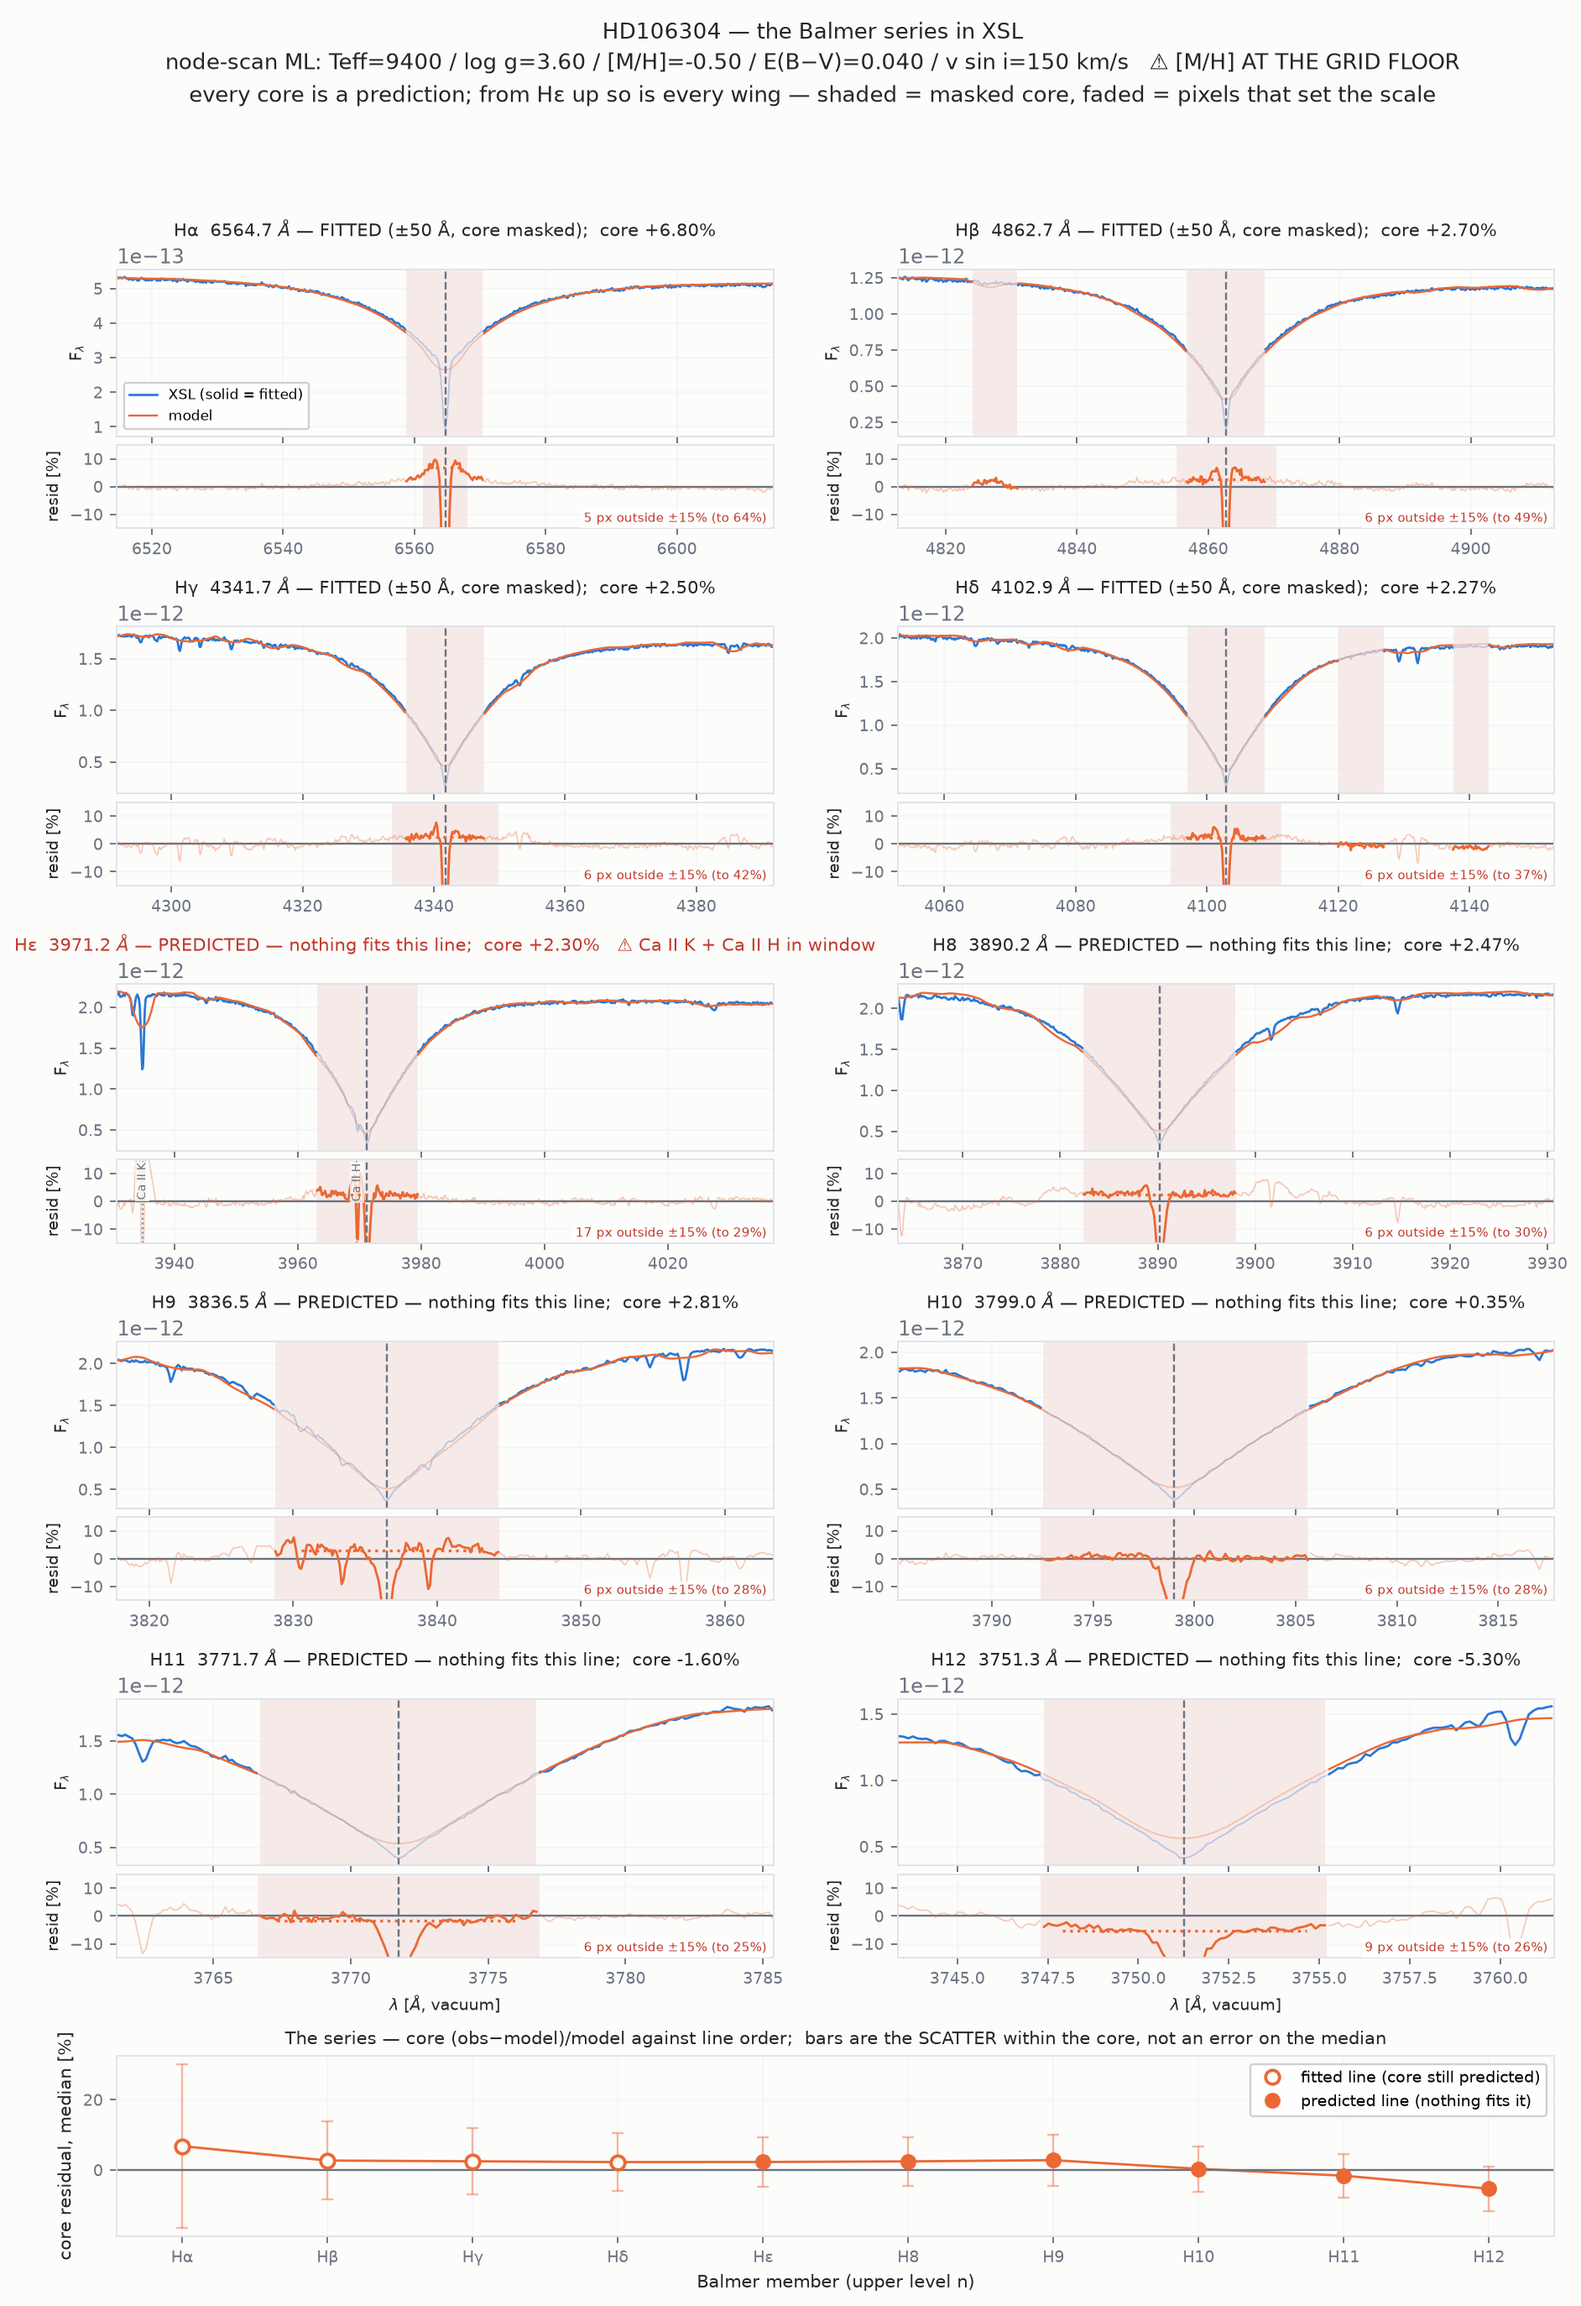
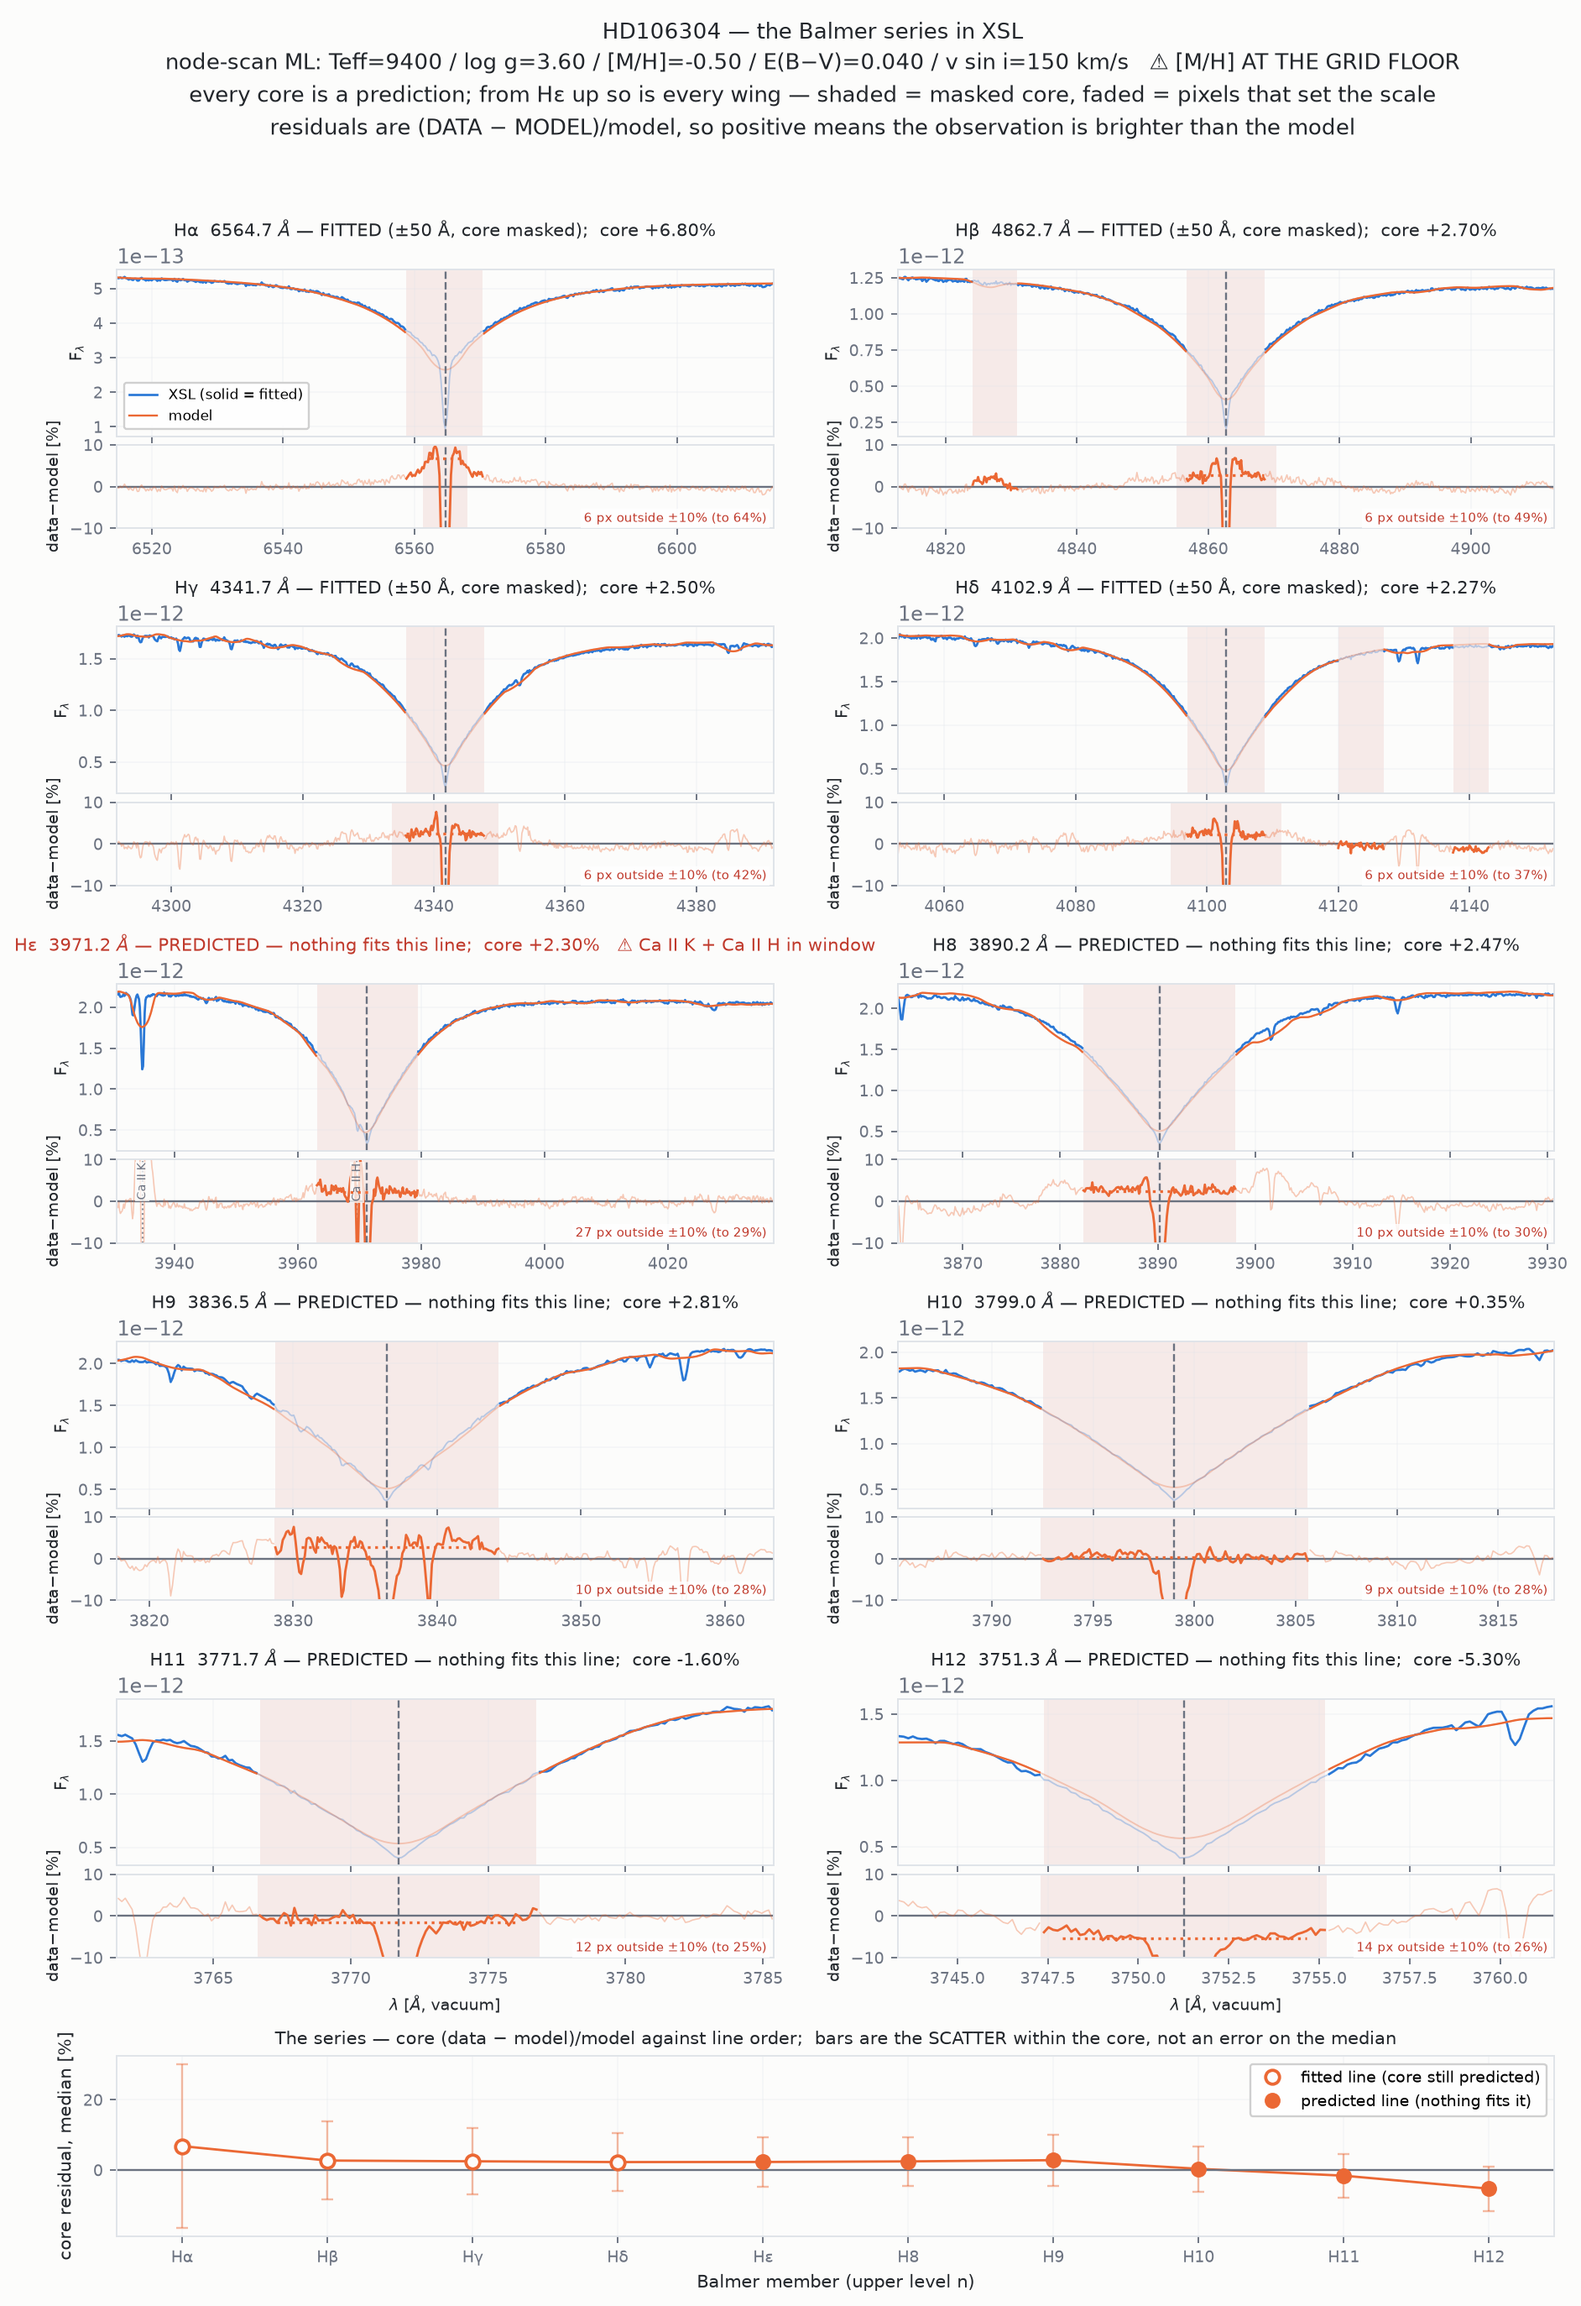
Tighten the Balmer residual panels to +/-10%, and name the sign convention
+/-15% left the resolved XSL cores squashed against the zero line: the
structure the panels exist to show sits inside a few percent, and at 15% it
was a wiggle. This is TIGHTER than the NGSL break panel's +/-15% in the same
figure, deliberately -- that one has to hold the whole high-order core excess
at 1.4 A pixels, these do not. Anything that leaves the range is still named
by specplot.offscale_note rather than cropped in silence.

Every residual axis now reads '(data - model)/model' instead of 'obs-model',
and both figures say in the header that positive means the observation is
brighter than the model. The quantity was never ambiguous in the code, but a
reader had to infer the sign from an abbreviation to know which way a +1.5%
core residual points.

diff --git a/explore/check_predict.py b/explore/check_predict.py
@@ -71,7 +71,12 @@ BALMER, PASCHEN = 3646.0, 8205.9
 # error the NGSL number still carries. They agree on the SIGN and shape of a
 # core excess, not on its size.
 H10_H11_N = (11, 10)
-H10_H11_RLIM = (-15., 15.)      # the Balmer break panel's range, deliberately
+# +/-10%, which is TIGHTER than the NGSL Balmer break panel's +/-15% in the
+# same figure. The two are not asked to show the same thing: the NGSL panel has
+# to hold the whole high-order core excess at 1.4 A pixels, while these cores
+# are resolved and sit well inside 10%. Anything that does leave the range is
+# named by specplot.offscale_note rather than silently cropped.
+H10_H11_RLIM = (-10., 10.)
 
 
 def nearest_node(grid, teff, logg, mh):
@@ -392,7 +397,7 @@ def figure(star, nb, spec, xs, held, results, xsl_cal, row, bands,
                      transform=axr.transAxes, ha='right', va='bottom',
                      fontsize=6.5, color=HELD_C,
                      bbox=dict(fc='white', ec='none', alpha=.8, pad=1.5))
-        axr.set_ylabel('(obs−model)/model [%]', fontsize=8, color=INK)
+        axr.set_ylabel('(data − model)/model [%]', fontsize=8, color=INK)
         axr.set_xlabel(r'$\lambda$ [$\AA$]', fontsize=8, color=INK)
 
     if xs is not None:
@@ -457,7 +462,7 @@ def figure(star, nb, spec, xs, held, results, xsl_cal, row, bands,
     for win in (BREAK_WINDOW, PASCHEN_WINDOW):
         axb.axvspan(*win, color=HELD_C, alpha=.13, lw=0)
     axb.set_xlabel(r'band effective $\lambda$ [$\AA$]', fontsize=9, color=INK)
-    axb.set_ylabel('(obs−model)/model [%]', fontsize=9, color=INK)
+    axb.set_ylabel('(data − model)/model [%]', fontsize=9, color=INK)
     axb.set_title('NGSL band residuals — the dust lever '
                   '(error bars = 1% calibration floor)', fontsize=9, color=INK)
     axb.legend(fontsize=8, framealpha=.92)
@@ -473,12 +478,16 @@ def figure(star, nb, spec, xs, held, results, xsl_cal, row, bands,
                  f'over 1705 nodes'
                  + ('   ⚠ [M/H] AT THE GRID FLOOR' if node['at_mh_floor'] else ''))
         line3 = ('E(B−V) and v sin i are fitted at every node; the held-out '
-                 'Balmer and Paschen windows are never fitted')
+                 'Balmer and Paschen windows are never fitted\n'
+                 'every residual panel is (DATA − MODEL)/model, so positive '
+                 'means the observation is brighter than the model')
     else:
         line2 = (f'nominal Teff={row["teff_ngsl"]} / log g={row["logg_ngsl"]} / '
                  f'[M/H]={row["mh_ngsl"]}')
         line3 = (f'held fixed: E(B−V)={fixed.get("ebv", 0.0):.3f}, '
-                 f'v sin i={fixed.get("vsini", 0.0):.0f} km/s')
+                 f'v sin i={fixed.get("vsini", 0.0):.0f} km/s\n'
+                 'every residual panel is (DATA − MODEL)/model, so positive '
+                 'means the observation is brighter than the model')
     fig.suptitle(
         f'{star}   conditioning = NGSL bands + XSL lines;   '
         f'Balmer and Paschen held out\n{line2}\n{line3}',

diff --git a/explore/plot_balmer_lines.py b/explore/plot_balmer_lines.py
@@ -68,7 +68,7 @@ ROOT = Path(__file__).resolve().parent.parent
 # comparable BETWEEN members and between stars. Per-panel autoscaling would
 # make a 1% core residual and a 10% one look identical, which is the one
 # comparison this figure exists to support.
-RLIM = (-15., 15.)
+RLIM = (-10., 10.)
 
 # Members drawn, blue-ward first so the figure reads down the series the way
 # the break does. Anything unusable for a given star drops out in `run`.
@@ -209,7 +209,7 @@ def figure(star, panels, stats, p):
         residual_panel(axr, d['view'].wavelength,
                        [(d['resid'], d['used'], d['pred'], [d['incore']])],
                        lo, hi,
-                       ylim=RLIM, marks=marks, ylabel='resid [%]',
+                       ylim=RLIM, marks=marks, ylabel='data−model [%]',
                        xlabel=(i == last_in_col[c]),
                        bands=[(d['lam'] - d['core'], d['lam'] + d['core'])])
         axr.axvline(d['lam'], color=MUTED, ls='--', lw=1)
@@ -244,7 +244,7 @@ def figure(star, panels, stats, p):
     axs.set_xticklabels([member_name(n) for n in ns])
     axs.set_xlabel('Balmer member (upper level n)', fontsize=9, color=INK)
     axs.set_ylabel('core residual, median [%]', fontsize=9, color=INK)
-    axs.set_title('The series — core (obs−model)/model against line order;  '
+    axs.set_title('The series — core (data − model)/model against line order;  '
                   'bars are the SCATTER within the core, not an error on the '
                   'median', fontsize=9, color=INK)
     axs.legend(fontsize=8, framealpha=.92)
@@ -258,7 +258,9 @@ def figure(star, panels, stats, p):
     fig.suptitle(
         f'{star} — the Balmer series in XSL\n{line2}\n'
         'every core is a prediction; from Hε up so is every wing — '
-        'shaded = masked core, faded = pixels that set the scale',
+        'shaded = masked core, faded = pixels that set the scale\n'
+        'residuals are (DATA − MODEL)/model, so positive means the '
+        'observation is brighter than the model',
         fontsize=11, color=INK, linespacing=1.5)
     out = figure_path('balmer_lines', star)
     fig.savefig(out, dpi=170, facecolor=SURFACE, bbox_inches='tight')

diff --git a/common/specplot.py b/common/specplot.py
@@ -120,7 +120,8 @@ def offscale_note(ax, values_pct, ylim, color=HELD_C):
 
 
 def residual_panel(ax, w, models, lo, hi, bands=(), ylim=None, marks=(),
-                   ylabel='(obs−model)/model [%]', xlabel=True, note=True):
+                   ylabel='(data − model)/model [%]', xlabel=True,
+                   note=True):
     """Fractional residuals over one window, fitted and predicted drawn apart.
 
     models  [(resid, used, pred[, median_masks])] per model curve, in
